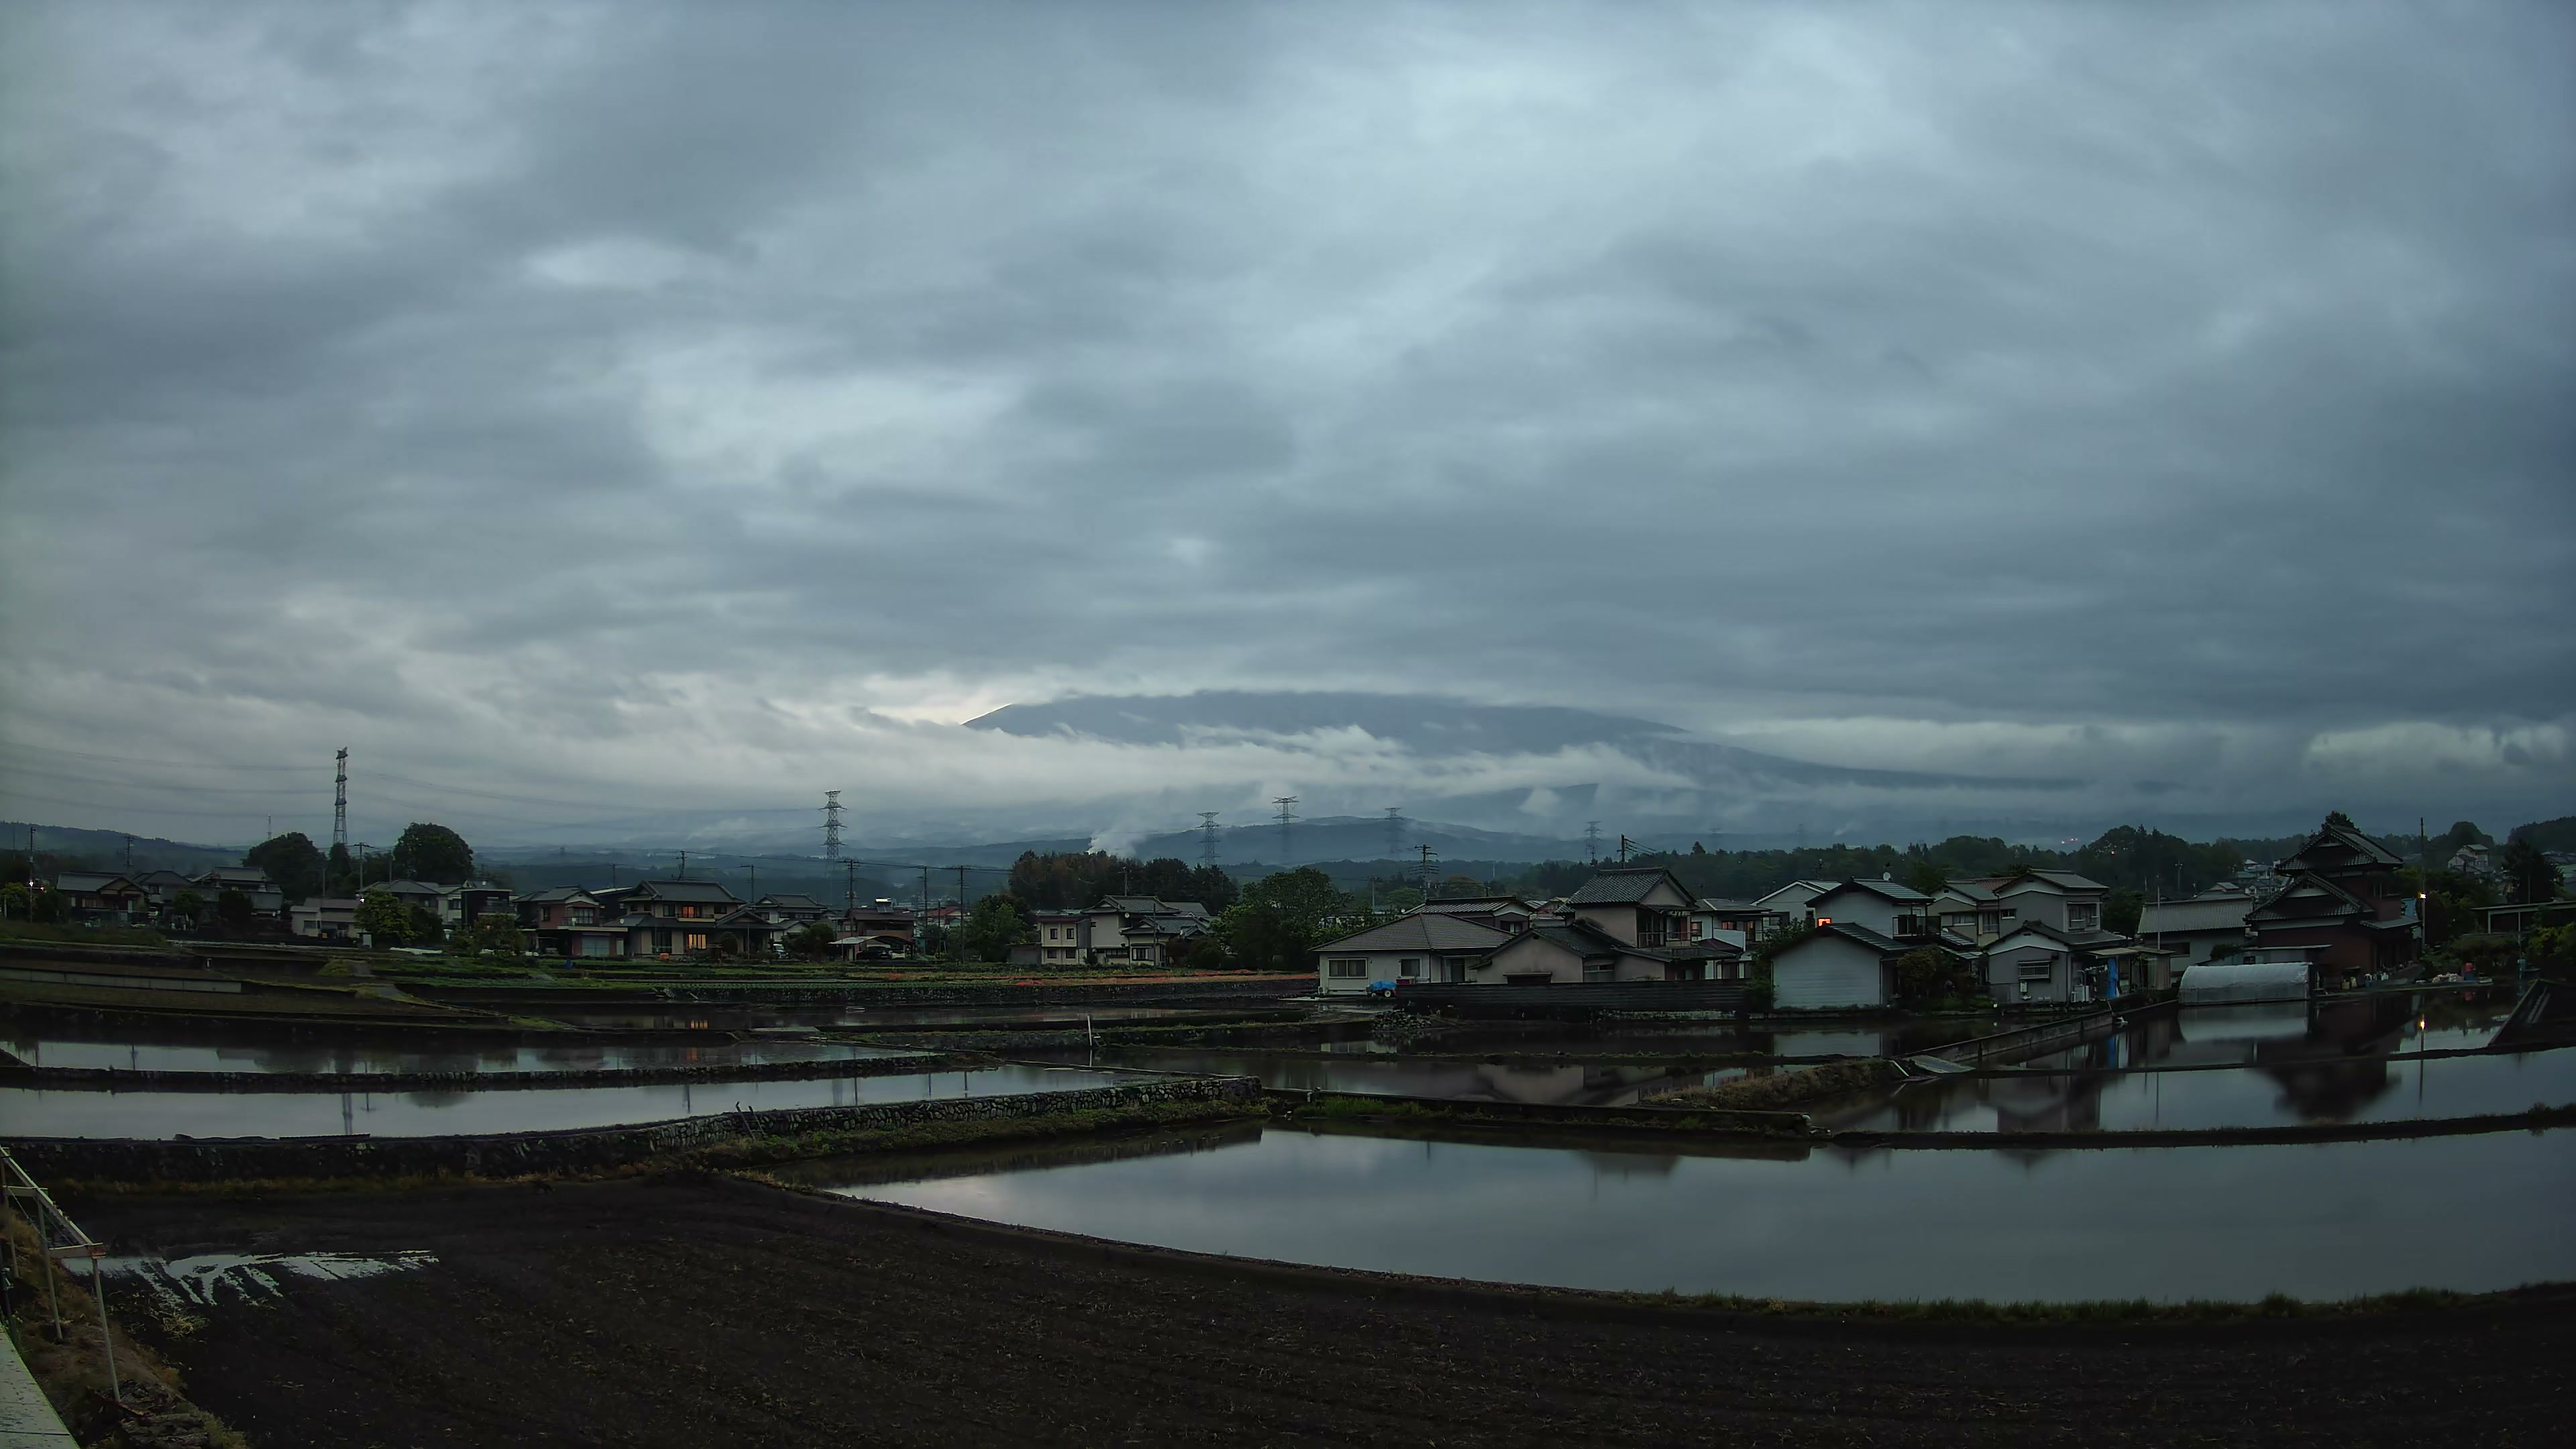
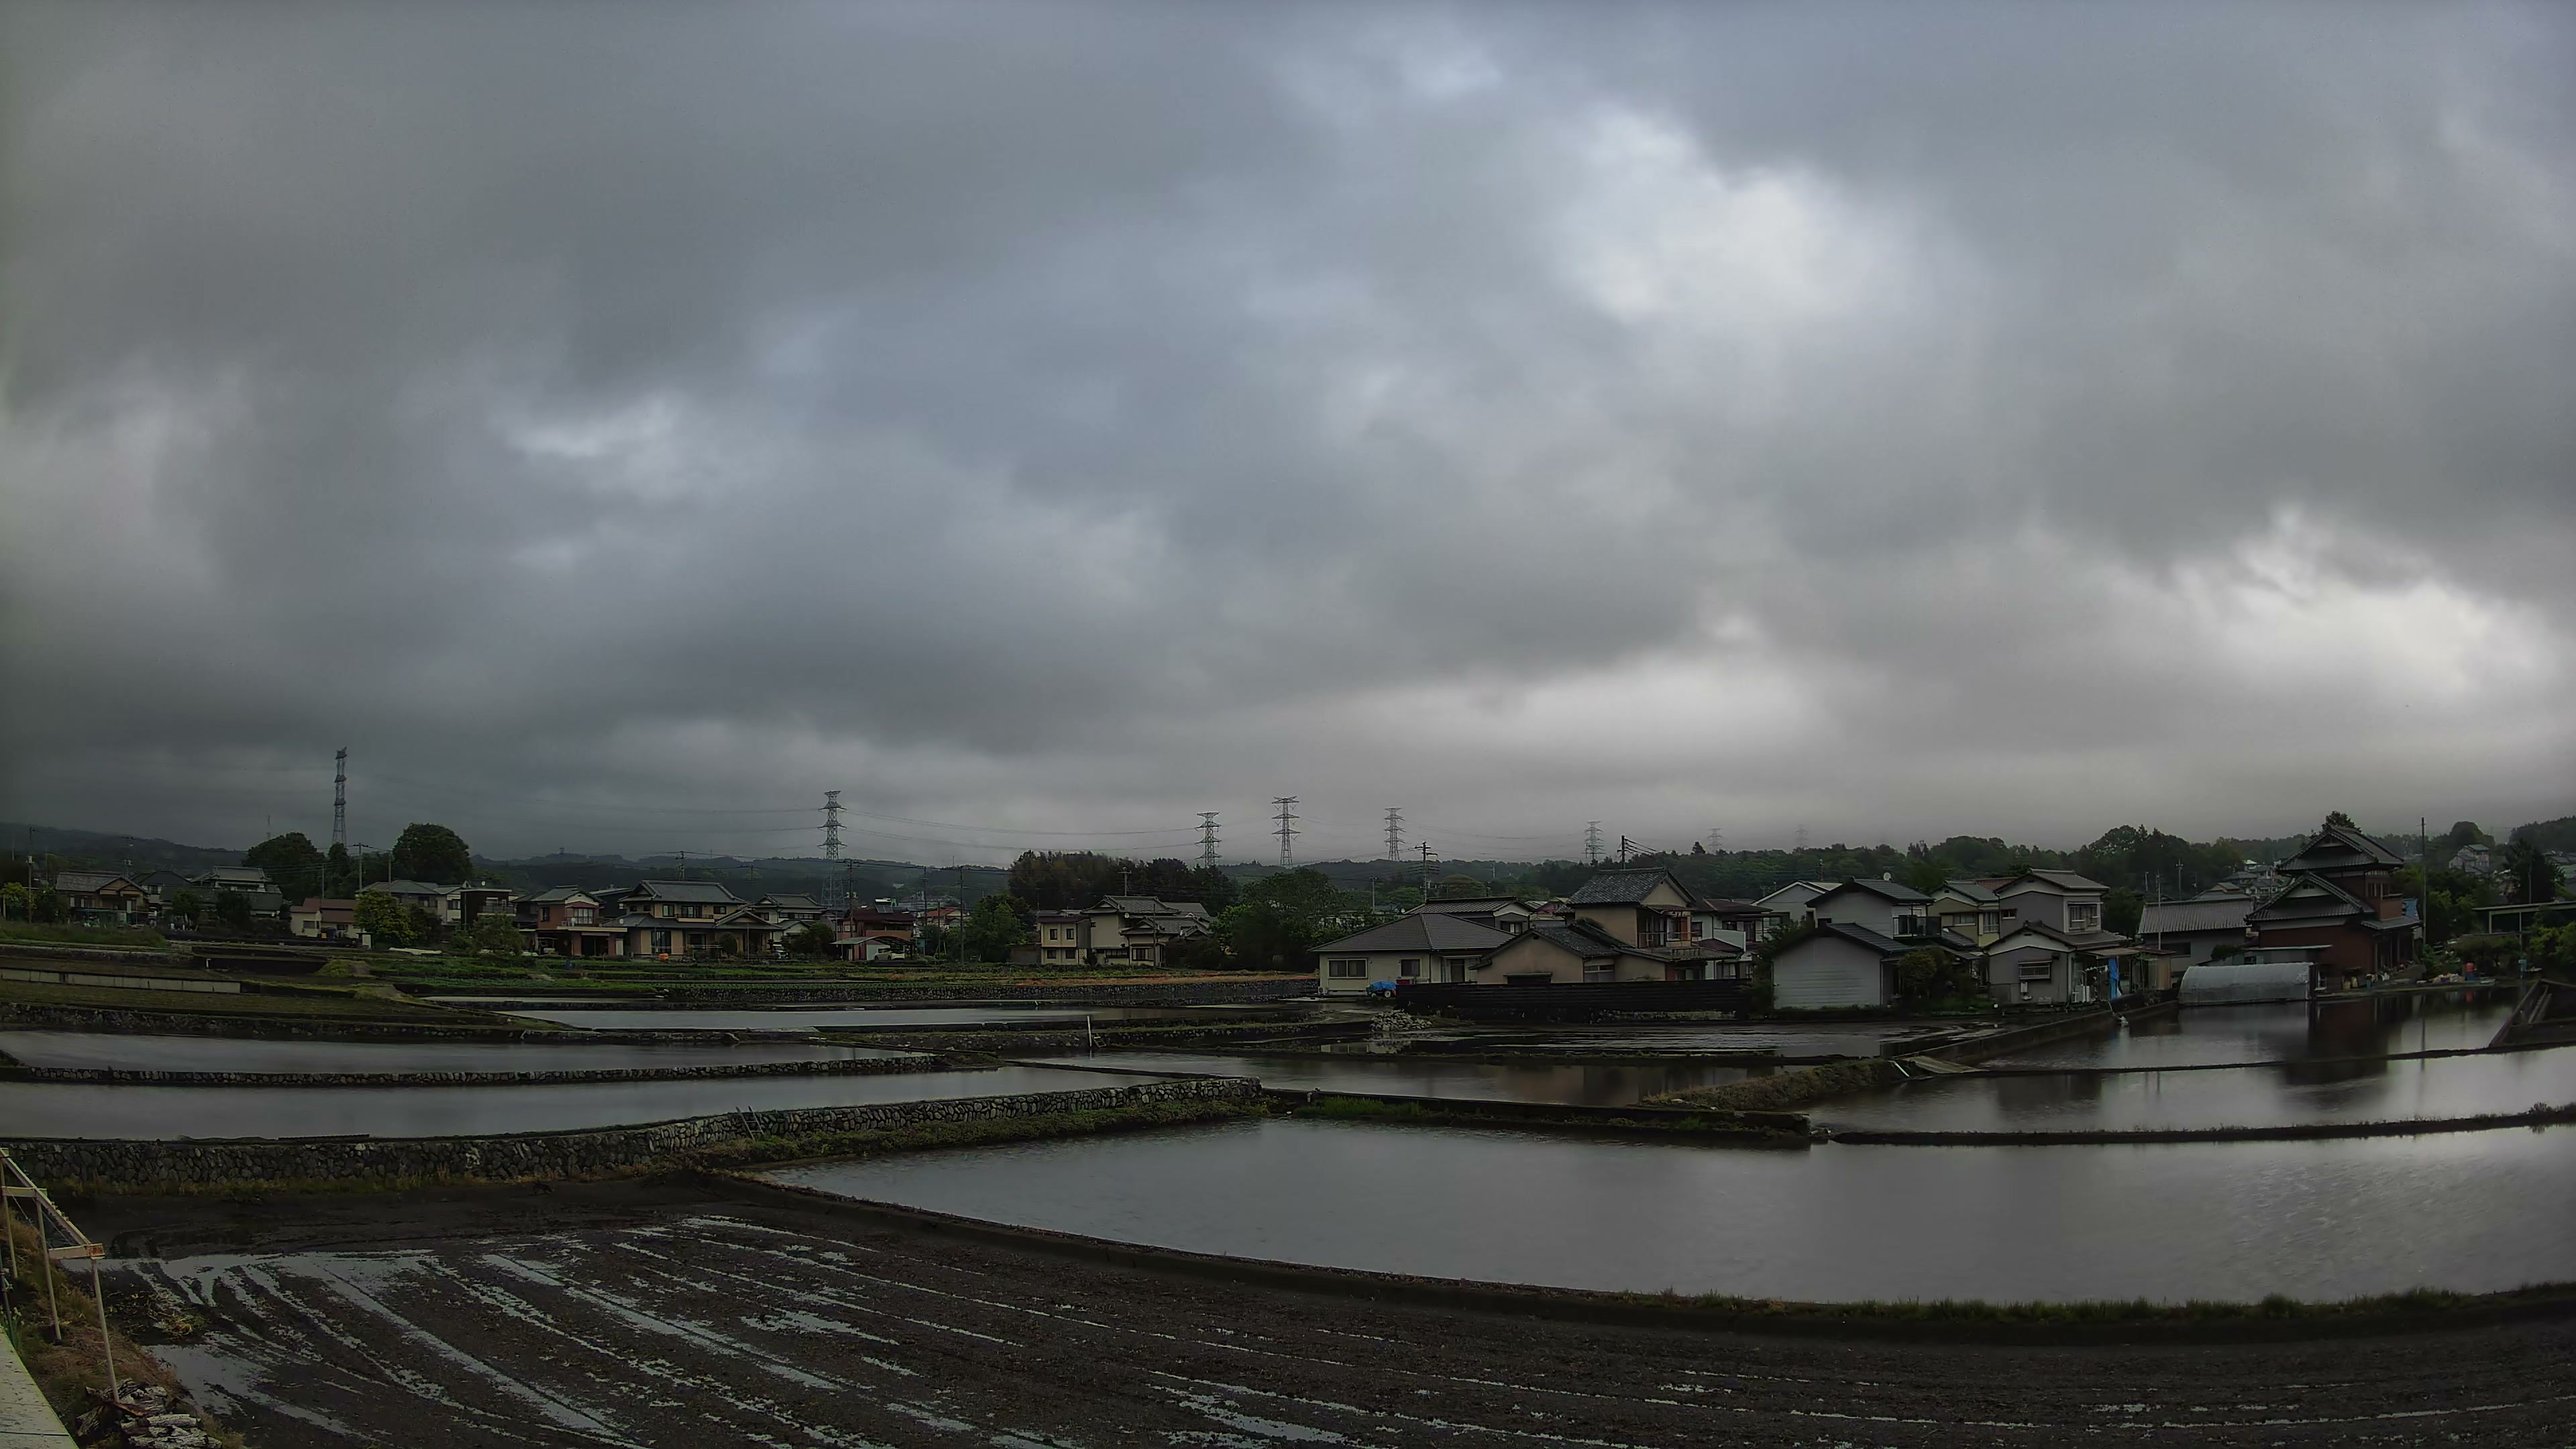
post: 富士山麓だより 2026-05-01 17:22 自動投稿

diff --git a/content/posts/2026-05-01-1722-evening.md b/content/posts/2026-05-01-1722-evening.md
@@ -1,0 +1,30 @@
+---
+title: "富士山麓だより 夕方 2026年05月01日"
+date: 2026-05-01T17:22:32+09:00
+slug: "2026-05-01-1722-evening"
+draft: false
+image: "/images/posts/2026-05/2026-05-01-evening.jpg"
+tags:
+  - "米農家"
+  - "富士山"
+  - "富士宮"
+  - "静岡"
+  - "農業"
+  - "FUJIRICE"
+  - "新米"
+  - "産地直送"
+categories:
+  - "富士山麓だより"
+---
+
+五月、日が長くなって夕方の時間がゆったりと流れます。富士山は夕焼けの中でその稜線を際立たせ、まるで絵葉書のようです。今日も一日、本当にお疲れさまでした。
+
+![富士山麓だより 夕方 2026年05月01日](/images/posts/2026-05/2026-05-01-evening.jpg)
+
+---
+
+**FUJI RICE** 富士山麓・富士宮市の米農家
+- 🛒 [Yahoo!ショッピングで購入](https://store.shopping.yahoo.co.jp/iwatayacom/)
+- 📷 [Instagram @fujirice_farm](https://www.instagram.com/fujirice_farm/)
+- 🎥 [YouTube チャンネル](https://www.youtube.com/@fujirice_official)
+- 💬 [LINE で相談](https://line.me/R/ti/p/%40508ouhoc)
